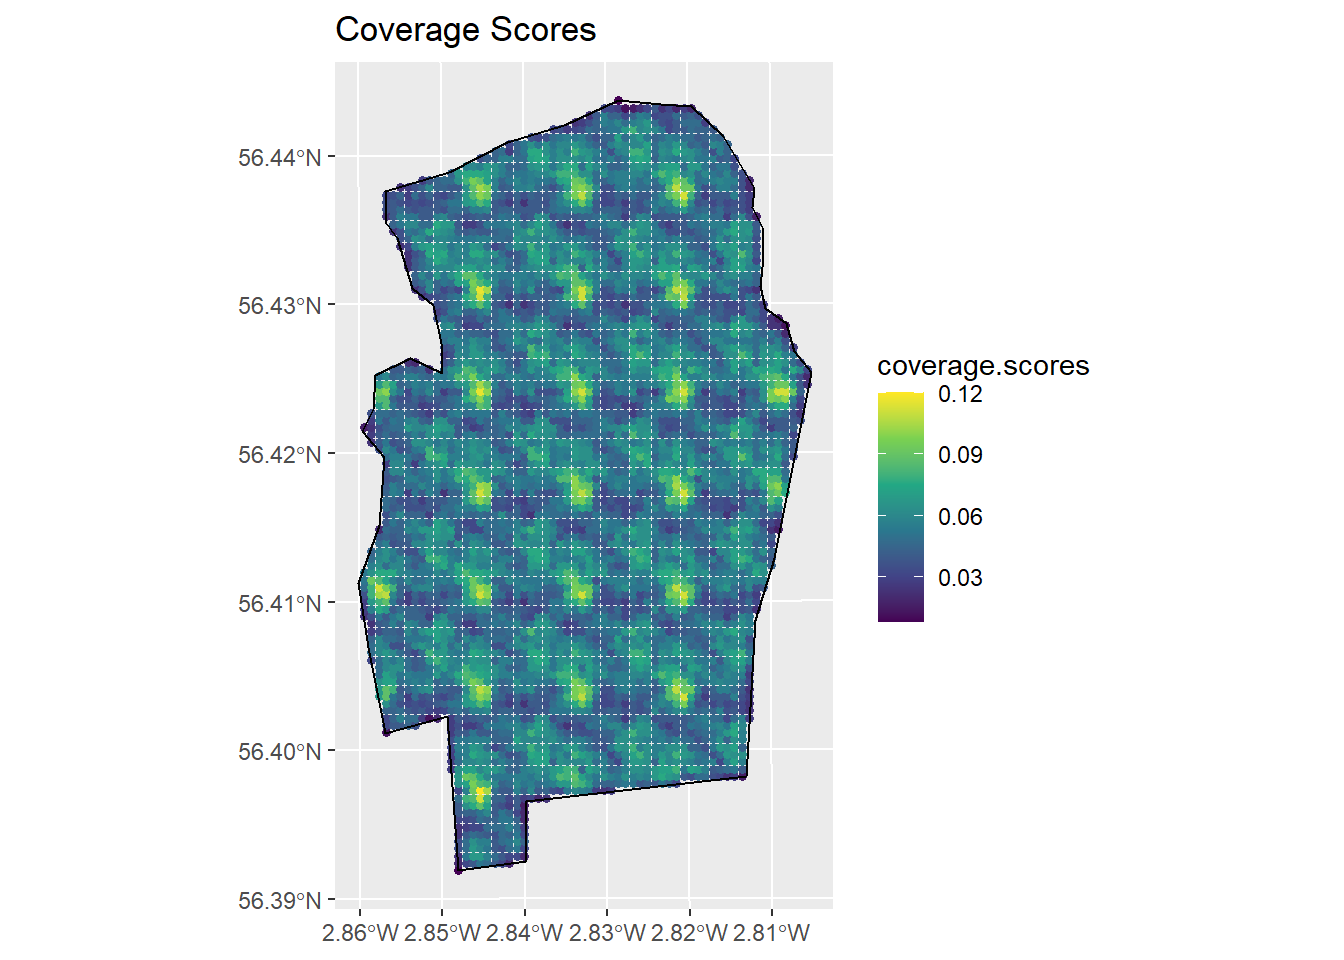
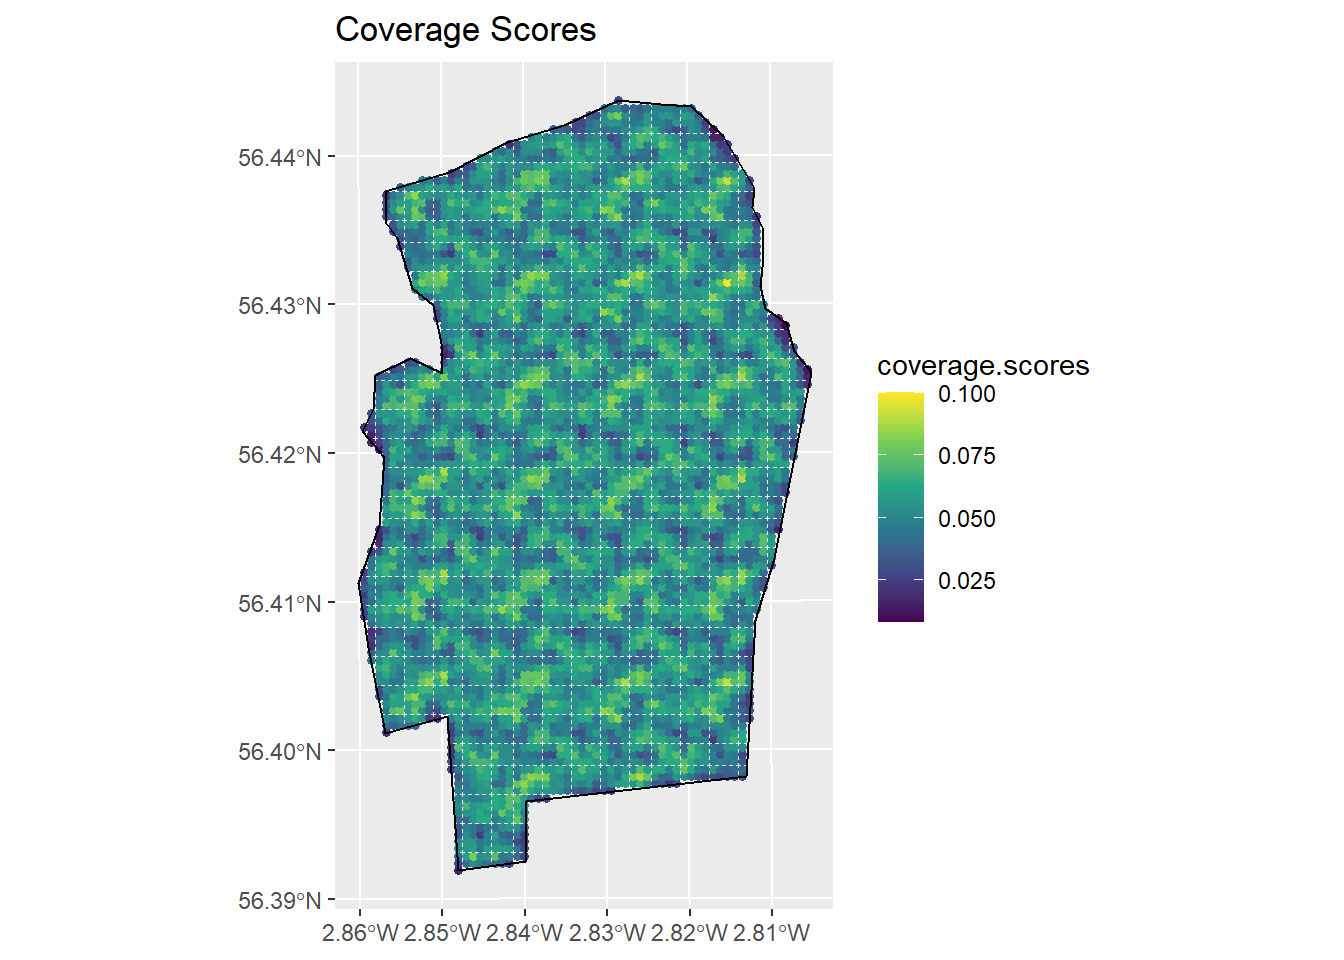
mod6 r soln redo

diff --git a/docs/06-design/R-prac/Pr6-solution.html b/docs/06-design/R-prac/Pr6-solution.html
@@ -352,7 +352,7 @@ pre > code.sourceCode > span > a:first-child::before { text-decoration: underlin
           <li class="sidebar-item">
   <div class="sidebar-item-container"> 
   <a href="../../11-mrds/mrdslanding.html" class="sidebar-item-text sidebar-link">
- <span class="menu-text">Analysis of point transect data</span></a>
+ <span class="menu-text">Analysis of double platform data</span></a>
   </div>
 </li>
       </ul>
@@ -367,7 +367,7 @@ pre > code.sourceCode > span > a:first-child::before { text-decoration: underlin
     <h2 id="toc-title">On this page</h2>
    
   <ul>
-  <li><a href="#systematic-parallel-line-aerial-survey-of-marine-mammals-in-st-andrews-bay" id="toc-systematic-parallel-line-aerial-survey-of-marine-mammals-in-st-andrews-bay" class="nav-link active" data-scroll-target="#systematic-parallel-line-aerial-survey-of-marine-mammals-in-st-andrews-bay">Systematic parallel line aerial survey of marine mammals in St Andrews bay</a>
+  <li><a href="#aerial-survey-of-marine-mammals-in-st-andrews-bay" id="toc-aerial-survey-of-marine-mammals-in-st-andrews-bay" class="nav-link active" data-scroll-target="#aerial-survey-of-marine-mammals-in-st-andrews-bay">Aerial survey of marine mammals in St Andrews Bay</a>
   <ul class="collapse">
   <li><a href="#systematic-parallel-line-design" id="toc-systematic-parallel-line-design" class="nav-link" data-scroll-target="#systematic-parallel-line-design">Systematic Parallel Line Design</a></li>
   <li><a href="#equal-spaced-zigzag-design" id="toc-equal-spaced-zigzag-design" class="nav-link" data-scroll-target="#equal-spaced-zigzag-design">Equal Spaced Zigzag Design</a></li>
@@ -431,8 +431,8 @@ Solution
 <pre><code>Linking to GEOS 3.11.2, GDAL 3.7.2, PROJ 9.3.0; sf_use_s2() is TRUE</code></pre>
 </div>
 </div>
-<section id="systematic-parallel-line-aerial-survey-of-marine-mammals-in-st-andrews-bay" class="level1">
-<h1>Systematic parallel line aerial survey of marine mammals in St Andrews bay</h1>
+<section id="aerial-survey-of-marine-mammals-in-st-andrews-bay" class="level1">
+<h1>Aerial survey of marine mammals in St Andrews Bay</h1>
 <section id="systematic-parallel-line-design" class="level2">
 <h2 class="anchored" data-anchor-id="systematic-parallel-line-design">Systematic Parallel Line Design</h2>
 <div class="callout callout-style-default callout-tip callout-titled">
@@ -447,10 +447,7 @@ Answers
 <div class="callout-body-container callout-body">
 <p><em>What spacing would you select for this design? What is the maximum trackline length for the design you have selected? What on-effort line length are we likely to achieve?</em></p>
 <blockquote class="blockquote">
-<p>The spacing chosen by <code>dssd</code> of 4937.5m to generate a line length of 200km resulted in a maximum trackline length of around 261km (each exact answer will vary due to the random generate of surveys). If we choose this design then it is possible that when we randomly generate our survey we may not be able to complete it with the effort we have available.</p>
-</blockquote>
-<blockquote class="blockquote">
-<p>We should therefore increase the spacing between the transects and re-run the coverage simulations. A spacing of 5000m gave a maximum trackline length of around 249km (see summary table of Trackline length in the output below) so we can be fairly confident that we will be able to complete any survey which we randomly generate from this design. This spacing should allow us to achieve an on-effort line length of 199km (see Line length section of design summary below). The minimum line length we would expect to achieve is 184km and the maximum is 206km. [Note your values might differ to those below]</p>
+<p>The spacing chosen by <code>dssd</code> of 4937.5m to generate a line length of 200km resulted in a maximum trackline length of around 261km (each exact answer will vary due to the random generate of surveys). If we choose this design then it is possible that when we randomly generate our survey we may not be able to complete it with the effort we have available. We should therefore increase the spacing between the transects and re-run the coverage simulations. A spacing of 5000m gave a maximum trackline length of around 249km (see summary table of Trackline length in the output below) so we can be fairly confident that we will be able to complete any survey which we randomly generate from this design. This spacing should allow us to achieve an on-effort line length of 199km (see Line length section of design summary below). The minimum line length we would expect to achieve is 184km and the maximum is 206km. [Note your values might differ to those below]</p>
 </blockquote>
 </div>
 </div>
@@ -510,56 +507,56 @@ sd                 0.3   0.3
     Covered area:
     
         St Andrews Bay     Total
-Minimum      726180337 726180337
-Mean         761093599 761093599
-Median       765999414 765999414
-Maximum      778652596 778652596
-sd            15705252  15705252
+Minimum      726191995 726191995
+Mean         760573054 760573054
+Median       765784380 765784380
+Maximum      778645737 778645737
+sd            15282001  15282001
 
     % of region covered:
     
         St Andrews Bay Total
 Minimum          73.54 73.54
-Mean             77.07 77.07
-Median           77.57 77.57
+Mean             77.02 77.02
+Median           77.55 77.55
 Maximum          78.85 78.85
-sd                1.59  1.59
+sd                1.55  1.55
 
     Line length:
     
         St Andrews Bay     Total
-Minimum      184430.58 184430.58
-Mean         197288.19 197288.19
-Median       198816.62 198816.62
-Maximum      205721.42 205721.42
-sd             5785.08   5785.08
+Minimum      184498.85 184498.85
+Mean         197432.07 197432.07
+Median       198767.27 198767.27
+Maximum      205767.17 205767.17
+sd             5716.97   5716.97
 
     Trackline length:
     
-        St Andrews Bay     Total
-Minimum      220527.26 220527.26
-Mean         242353.58 242353.58
-Median       246182.86 246182.86
-Maximum      248792.02 248792.02
-sd             8096.27   8096.27
+        St Andrews Bay    Total
+Minimum       220590.5 220590.5
+Mean          242318.5 242318.5
+Median        246190.0 246190.0
+Maximum       248769.1 248769.1
+sd              7969.5   7969.5
 
     Cyclic trackline length:
     
         St Andrews Bay     Total
-Minimum      251937.20 251937.20
-Mean         279103.95 279103.95
-Median       283611.23 283611.23
-Maximum      285978.40 285978.40
-sd             9517.29   9517.29
+Minimum      252042.47 252042.47
+Mean         279152.58 279152.58
+Median       283598.13 283598.13
+Maximum      285955.40 285955.40
+sd             9268.38   9268.38
 
     Coverage Score Summary:
     
         St Andrews Bay      Total
-Minimum     0.34000000 0.34000000
-Mean        0.77085074 0.77085074
-Median      0.79600000 0.79600000
-Maximum     0.84800000 0.84800000
-sd          0.08652212 0.08652212</code></pre>
+Minimum     0.36800000 0.36800000
+Mean        0.77028972 0.77028972
+Median      0.79200000 0.79200000
+Maximum     0.83600000 0.83600000
+sd          0.08669107 0.08669107</code></pre>
 </div>
 </div>
 </section>
@@ -696,29 +693,29 @@ GEOGCRS["WGS 84",
    __________________
 Design:  systematically spaced transects
 Spacing:  751.2295
-Number of samplers:  27
+Number of samplers:  24
 Design angle:  0
 Edge protocol:  minus
-Covered area:  809112.7
-Strata coverage: 5.73%
+Covered area:  741060.7
+Strata coverage: 5.25%
 Strata area:  14108643
 
    Strata Morton Lochs:
    _____________________
 Design:  systematically spaced transects
 Spacing:  218.3674
-Number of samplers:  16
+Number of samplers:  14
 Design angle:  0
 Edge protocol:  minus
-Covered area:  439602.1
-Strata coverage: 61.46%
+Covered area:  389559.8
+Strata coverage: 54.46%
 Strata area:  715264.9
 
    Study Area Totals:
    _________________
-Number of samplers:  43
-Covered area:  1248715
-Average coverage: 8.42%</code></pre>
+Number of samplers:  38
+Covered area:  1130620
+Average coverage: 7.63%</code></pre>
 </div>
 </div>
 <div class="callout callout-style-default callout-tip callout-titled">
@@ -765,38 +762,38 @@ Coverage Simulation repetitions:  250
     Number of samplers:
     
         Main Area Morton Lochs Total
-Minimum      22.0         13.0  35.0
-Mean         25.0         15.1  40.0
-Median       25.0         15.0  40.0
-Maximum      27.0         18.0  44.0
-sd            1.1          1.1   1.6
+Minimum        22         13.0  36.0
+Mean           25         15.0  40.0
+Median         25         15.0  40.0
+Maximum        27         18.0  44.0
+sd              1          1.2   1.5
 
     Covered area:
     
         Main Area Morton Lochs      Total
-Minimum 674616.69    362527.25 1053937.52
-Mean    763390.19    417894.15 1181284.35
-Median  763158.12    417260.48 1180703.63
-Maximum 818565.57    466990.94 1277134.12
-sd       29957.82     25293.55   39129.07
+Minimum 677904.95    358502.13 1057177.98
+Mean    765127.29    416339.45 1181466.74
+Median  769428.76    415786.44 1183008.96
+Maximum 820887.04    469124.73 1267166.90
+sd       29037.62     25024.68   36980.17
 
     % of region covered:
     
         Main Area Morton Lochs Total
-Minimum      4.78        50.68  7.11
-Mean         5.41        58.43  7.97
-Median       5.41        58.34  7.96
-Maximum      5.80        65.29  8.62
-sd           0.21         3.54  0.26
+Minimum      4.80        50.12  7.13
+Mean         5.42        58.21  7.97
+Median       5.45        58.13  7.98
+Maximum      5.82        65.59  8.55
+sd           0.21         3.50  0.25
 
     Coverage Score Summary:
     
          Main Area Morton Lochs      Total
-Minimum 0.00800000    0.2680000 0.00800000
-Mean    0.05408743    0.5864333 0.07965026
-Median  0.05200000    0.6280000 0.05200000
-Maximum 0.12000000    0.7200000 0.72000000
-sd      0.01562491    0.1084115 0.11726869</code></pre>
+Minimum 0.00800000    0.2600000 0.00800000
+Mean    0.05424380    0.5828000 0.07962465
+Median  0.05600000    0.6320000 0.05600000
+Maximum 0.10000000    0.7120000 0.71200000
+sd      0.01213169    0.1127412 0.11628247</code></pre>
 </div>
 </div>
 <div class="callout callout-style-default callout-tip callout-titled">
